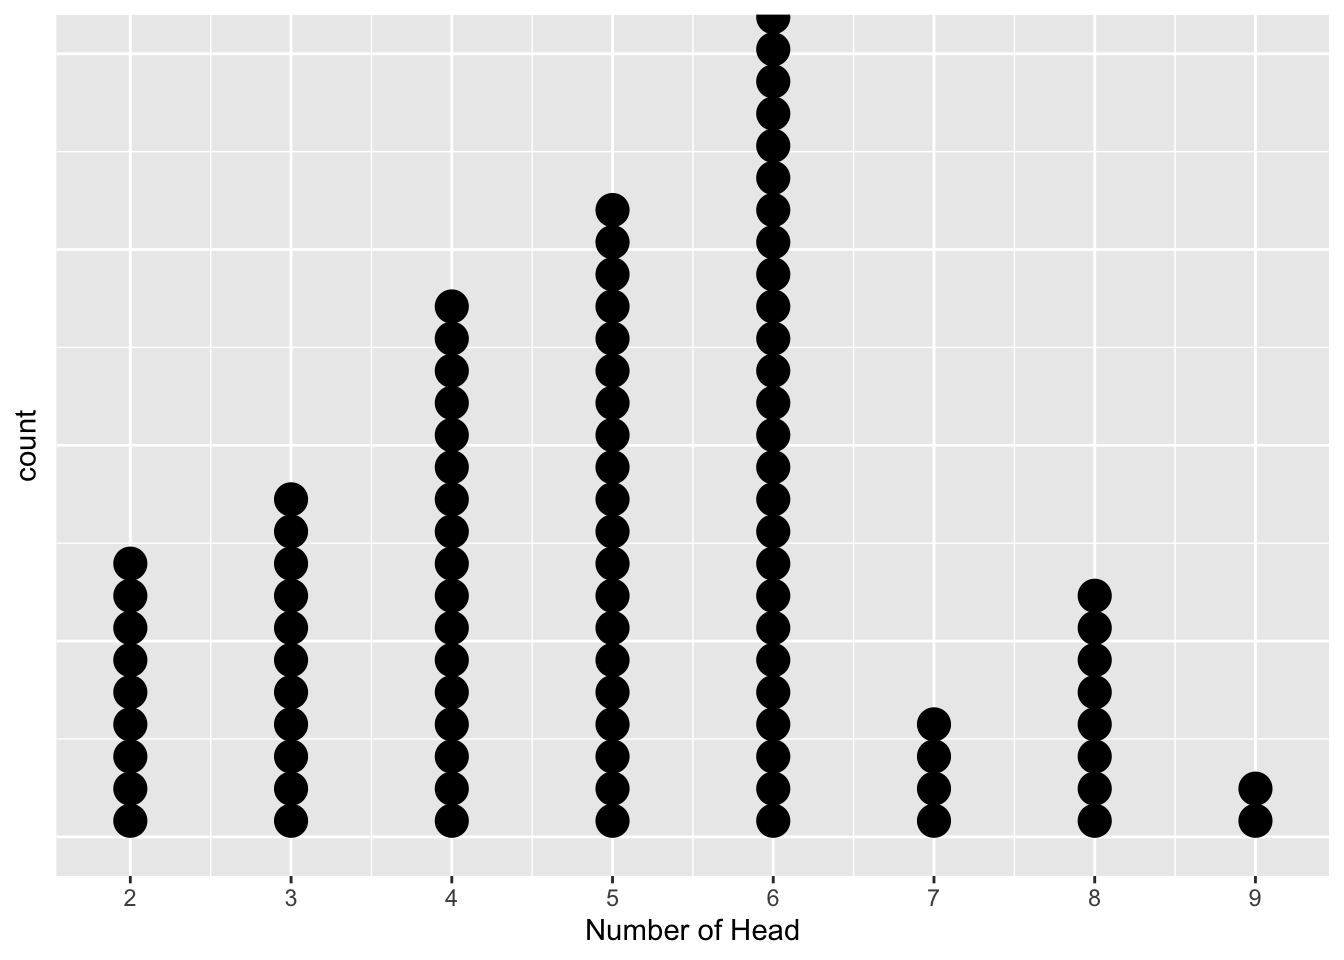
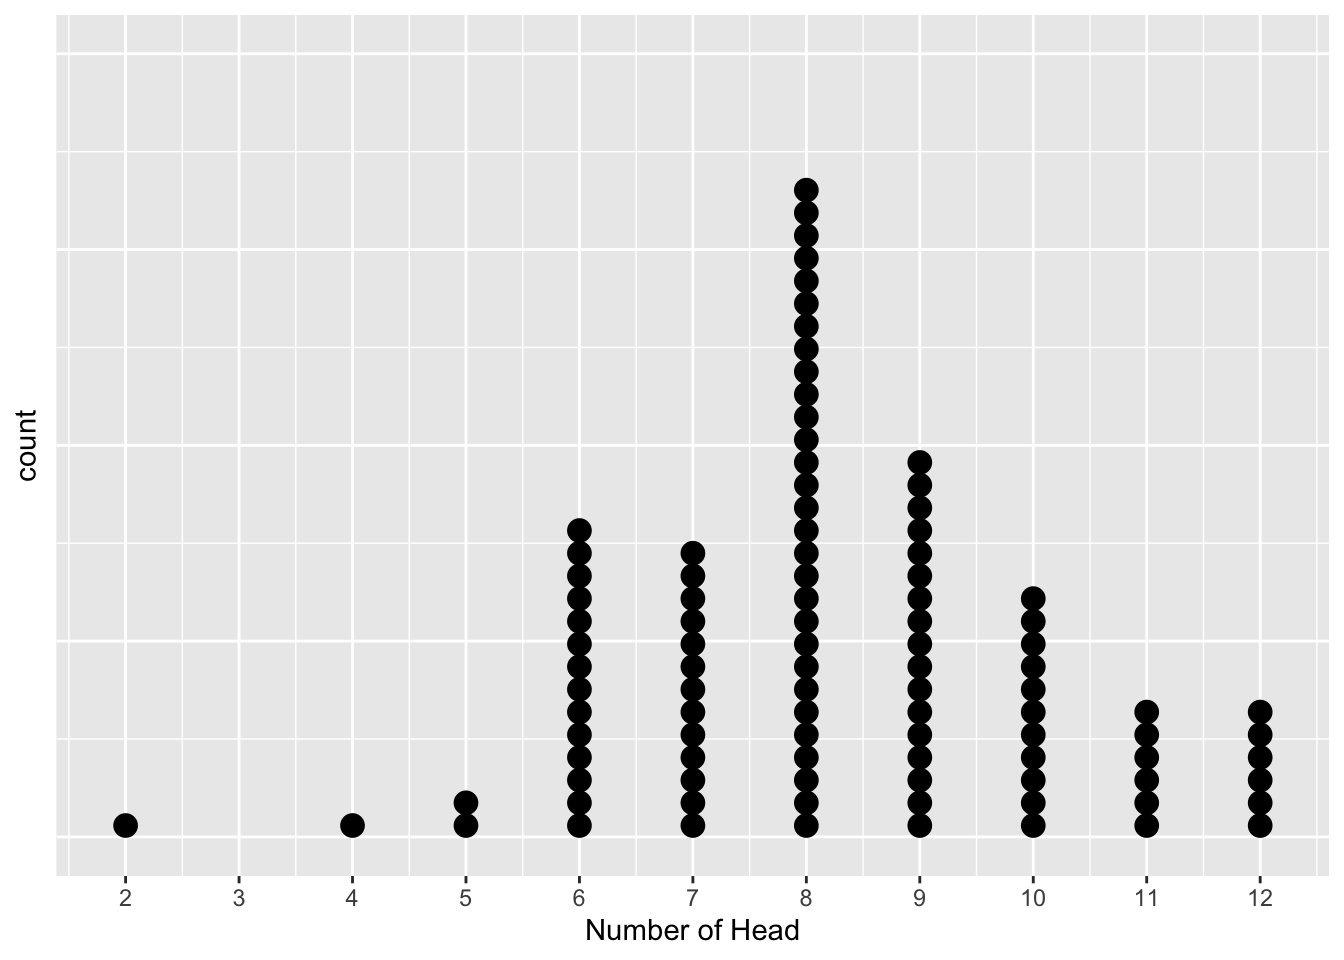
fix the x-axis problem

diff --git a/docs/chance-model.html b/docs/chance-model.html
@@ -178,20 +178,20 @@ code span.wa { color: #60a0b0; font-weight: bold; font-style: italic; } /* Warni
 <span id="cb1-6"><a href="chance-model.html#cb1-6" aria-hidden="true" tabindex="-1"></a>}</span>
 <span id="cb1-7"><a href="chance-model.html#cb1-7" aria-hidden="true" tabindex="-1"></a><span class="co"># Each value in the resultContainer represents result from flipping the coin each time, since one repetition contains 10 trails, there are 10 values in resultContainer. </span></span>
 <span id="cb1-8"><a href="chance-model.html#cb1-8" aria-hidden="true" tabindex="-1"></a>resultContainer</span></code></pre></div>
-<pre><code>##  [1] 1 0 1 1 1 0 0 0 0 0</code></pre>
+<pre><code>##  [1] 0 1 1 0 1 0 1 1 0 0</code></pre>
 <div class="sourceCode" id="cb3"><pre class="sourceCode r"><code class="sourceCode r"><span id="cb3-1"><a href="chance-model.html#cb3-1" aria-hidden="true" tabindex="-1"></a><span class="co"># sumHead represents the total number of head obtained from flipping the coin 10 times. </span></span>
 <span id="cb3-2"><a href="chance-model.html#cb3-2" aria-hidden="true" tabindex="-1"></a>sumHead <span class="ot">&lt;-</span> <span class="fu">sum</span>(resultContainer)</span>
 <span id="cb3-3"><a href="chance-model.html#cb3-3" aria-hidden="true" tabindex="-1"></a>sumHead</span></code></pre></div>
-<pre><code>## [1] 4</code></pre>
+<pre><code>## [1] 5</code></pre>
 </div>
 <div id="doris-buzz-simulation" class="section level2 hasAnchor" number="1.2">
 <h2><span class="header-section-number">1.2</span> Doris &amp; Buzz Simulation<a href="chance-model.html#doris-buzz-simulation" class="anchor-section" aria-label="Anchor link to header"></a></h2>
 <div class="sourceCode" id="cb5"><pre class="sourceCode r"><code class="sourceCode r"><span id="cb5-1"><a href="chance-model.html#cb5-1" aria-hidden="true" tabindex="-1"></a><span class="co"># oneRep saves result of one repetion (16 trails). In each trial, outcome is 0 or 1. </span></span>
-<span id="cb5-2"><a href="chance-model.html#cb5-2" aria-hidden="true" tabindex="-1"></a>oneRep <span class="ot">&lt;-</span> <span class="fu">rep</span>(<span class="cn">NA</span>,<span class="dv">10</span>)</span>
+<span id="cb5-2"><a href="chance-model.html#cb5-2" aria-hidden="true" tabindex="-1"></a>oneRep <span class="ot">&lt;-</span> <span class="fu">rep</span>(<span class="cn">NA</span>,<span class="dv">16</span>)</span>
 <span id="cb5-3"><a href="chance-model.html#cb5-3" aria-hidden="true" tabindex="-1"></a><span class="co"># container saves result of all 100 replications.  </span></span>
 <span id="cb5-4"><a href="chance-model.html#cb5-4" aria-hidden="true" tabindex="-1"></a>container <span class="ot">&lt;-</span> <span class="fu">t</span>(<span class="fu">replicate</span>(<span class="dv">100</span>,oneRep))</span>
 <span id="cb5-5"><a href="chance-model.html#cb5-5" aria-hidden="true" tabindex="-1"></a><span class="cf">for</span> (i <span class="cf">in</span> <span class="dv">1</span><span class="sc">:</span><span class="dv">100</span>) {</span>
-<span id="cb5-6"><a href="chance-model.html#cb5-6" aria-hidden="true" tabindex="-1"></a>  <span class="cf">for</span> (j <span class="cf">in</span> <span class="dv">1</span><span class="sc">:</span><span class="dv">10</span>){</span>
+<span id="cb5-6"><a href="chance-model.html#cb5-6" aria-hidden="true" tabindex="-1"></a>  <span class="cf">for</span> (j <span class="cf">in</span> <span class="dv">1</span><span class="sc">:</span><span class="dv">16</span>){</span>
 <span id="cb5-7"><a href="chance-model.html#cb5-7" aria-hidden="true" tabindex="-1"></a>    <span class="co"># 0 stands for Buzz guessing wrong and 1 stands for Buzz guessing correctly. </span></span>
 <span id="cb5-8"><a href="chance-model.html#cb5-8" aria-hidden="true" tabindex="-1"></a>    container[i,j] <span class="ot">&lt;-</span> <span class="fu">sample</span>(<span class="dv">0</span><span class="sc">:</span><span class="dv">1</span>,<span class="dv">1</span>)</span>
 <span id="cb5-9"><a href="chance-model.html#cb5-9" aria-hidden="true" tabindex="-1"></a>  }</span>
@@ -204,12 +204,12 @@ code span.wa { color: #60a0b0; font-weight: bold; font-style: italic; } /* Warni
 <span id="cb5-16"><a href="chance-model.html#cb5-16" aria-hidden="true" tabindex="-1"></a>simulatedDisM <span class="ot">&lt;-</span> <span class="fu">as.data.frame</span>(simulatedDis)</span>
 <span id="cb5-17"><a href="chance-model.html#cb5-17" aria-hidden="true" tabindex="-1"></a><span class="fu">head</span>(simulatedDisM)</span></code></pre></div>
 <pre><code>##   repLabel dis100Rep
-## 1        1         5
-## 2        2         5
-## 3        3         6
-## 4        4         7
-## 5        5         5
-## 6        6         5</code></pre>
+## 1        1         6
+## 2        2        10
+## 3        3         9
+## 4        4         6
+## 5        5         8
+## 6        6         8</code></pre>
 <div class="sourceCode" id="cb7"><pre class="sourceCode r"><code class="sourceCode r"><span id="cb7-1"><a href="chance-model.html#cb7-1" aria-hidden="true" tabindex="-1"></a><span class="co"># plot the resulted dataframe in a dot plot. </span></span>
 <span id="cb7-2"><a href="chance-model.html#cb7-2" aria-hidden="true" tabindex="-1"></a><span class="fu">library</span>(ggplot2)</span>
 <span id="cb7-3"><a href="chance-model.html#cb7-3" aria-hidden="true" tabindex="-1"></a><span class="fu">ggplot</span>(simulatedDisM, <span class="fu">aes</span>(<span class="at">x =</span> dis100Rep)) <span class="sc">+</span></span>
@@ -218,7 +218,7 @@ code span.wa { color: #60a0b0; font-weight: bold; font-style: italic; } /* Warni
 <span id="cb7-6"><a href="chance-model.html#cb7-6" aria-hidden="true" tabindex="-1"></a>    <span class="at">axis.text.y=</span><span class="fu">element_blank</span>(),  <span class="co">#remove y axis labels</span></span>
 <span id="cb7-7"><a href="chance-model.html#cb7-7" aria-hidden="true" tabindex="-1"></a>    <span class="at">axis.ticks.y=</span><span class="fu">element_blank</span>()  <span class="co">#remove y axis ticks</span></span>
 <span id="cb7-8"><a href="chance-model.html#cb7-8" aria-hidden="true" tabindex="-1"></a>  )<span class="sc">+</span></span>
-<span id="cb7-9"><a href="chance-model.html#cb7-9" aria-hidden="true" tabindex="-1"></a>  <span class="fu">scale_x_continuous</span>(<span class="at">breaks=</span><span class="fu">c</span>(<span class="dv">1</span><span class="sc">:</span><span class="dv">10</span>))<span class="sc">+</span></span>
+<span id="cb7-9"><a href="chance-model.html#cb7-9" aria-hidden="true" tabindex="-1"></a>  <span class="fu">scale_x_continuous</span>(<span class="at">breaks=</span><span class="fu">c</span>(<span class="dv">1</span><span class="sc">:</span><span class="dv">16</span>))<span class="sc">+</span></span>
 <span id="cb7-10"><a href="chance-model.html#cb7-10" aria-hidden="true" tabindex="-1"></a>  <span class="fu">labs</span>(<span class="at">x=</span><span class="st">&quot;Number of Head&quot;</span>)</span></code></pre></div>
 <p><img src="bookdownproj_files/figure-html/unnamed-chunk-2-1.png" width="672" /></p>
 
